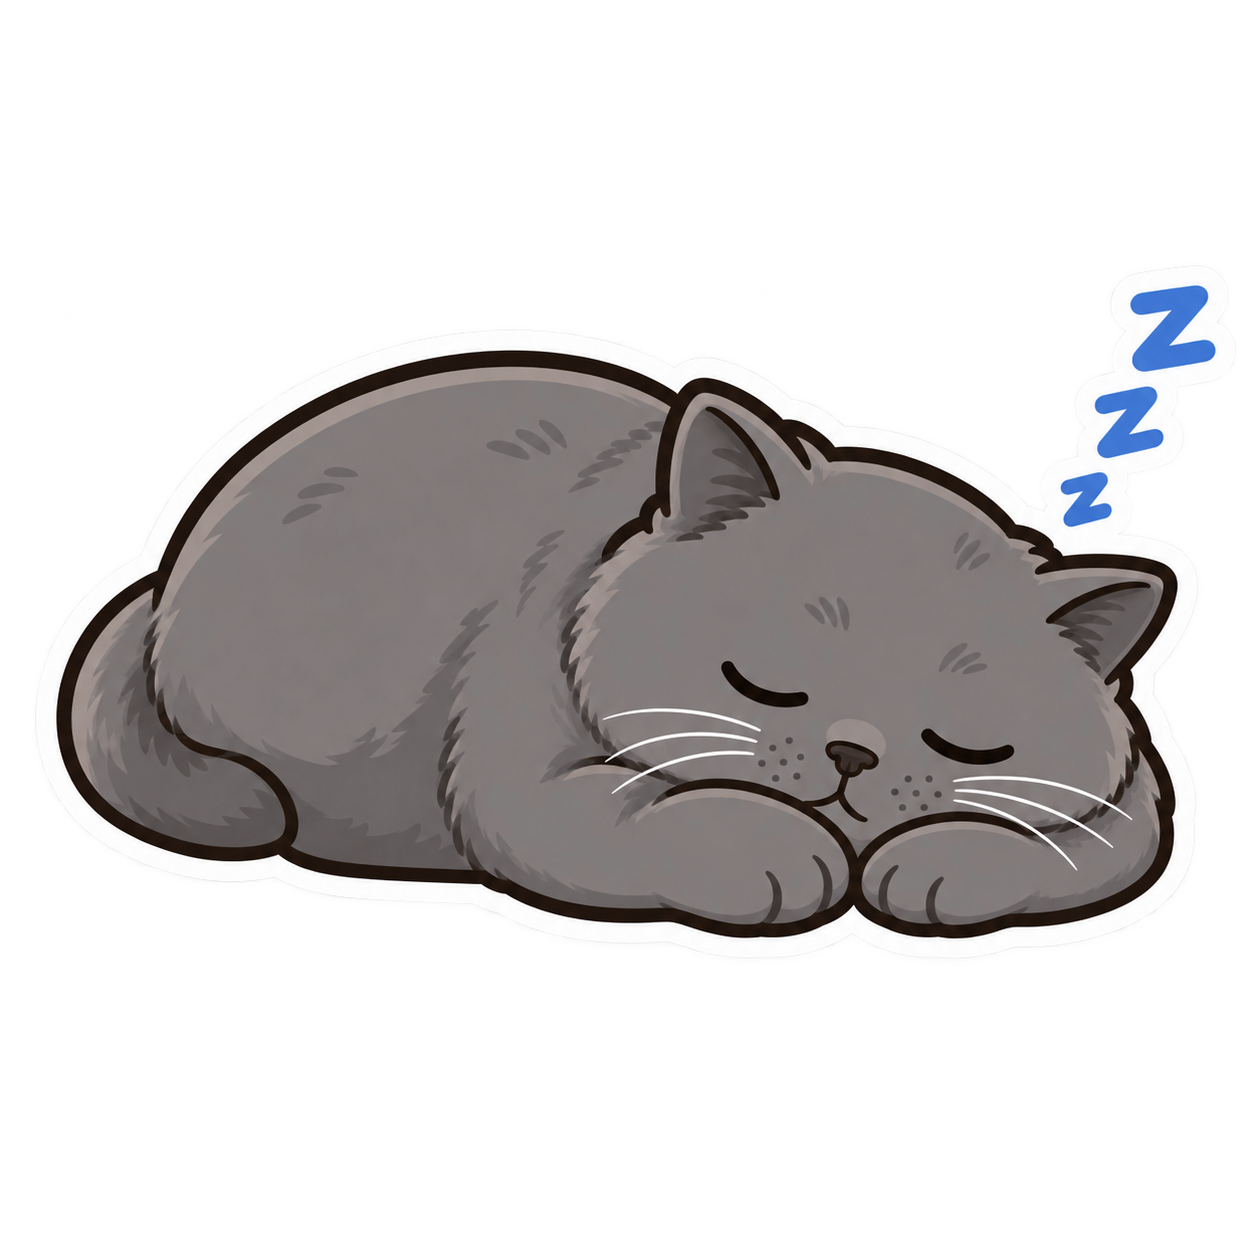
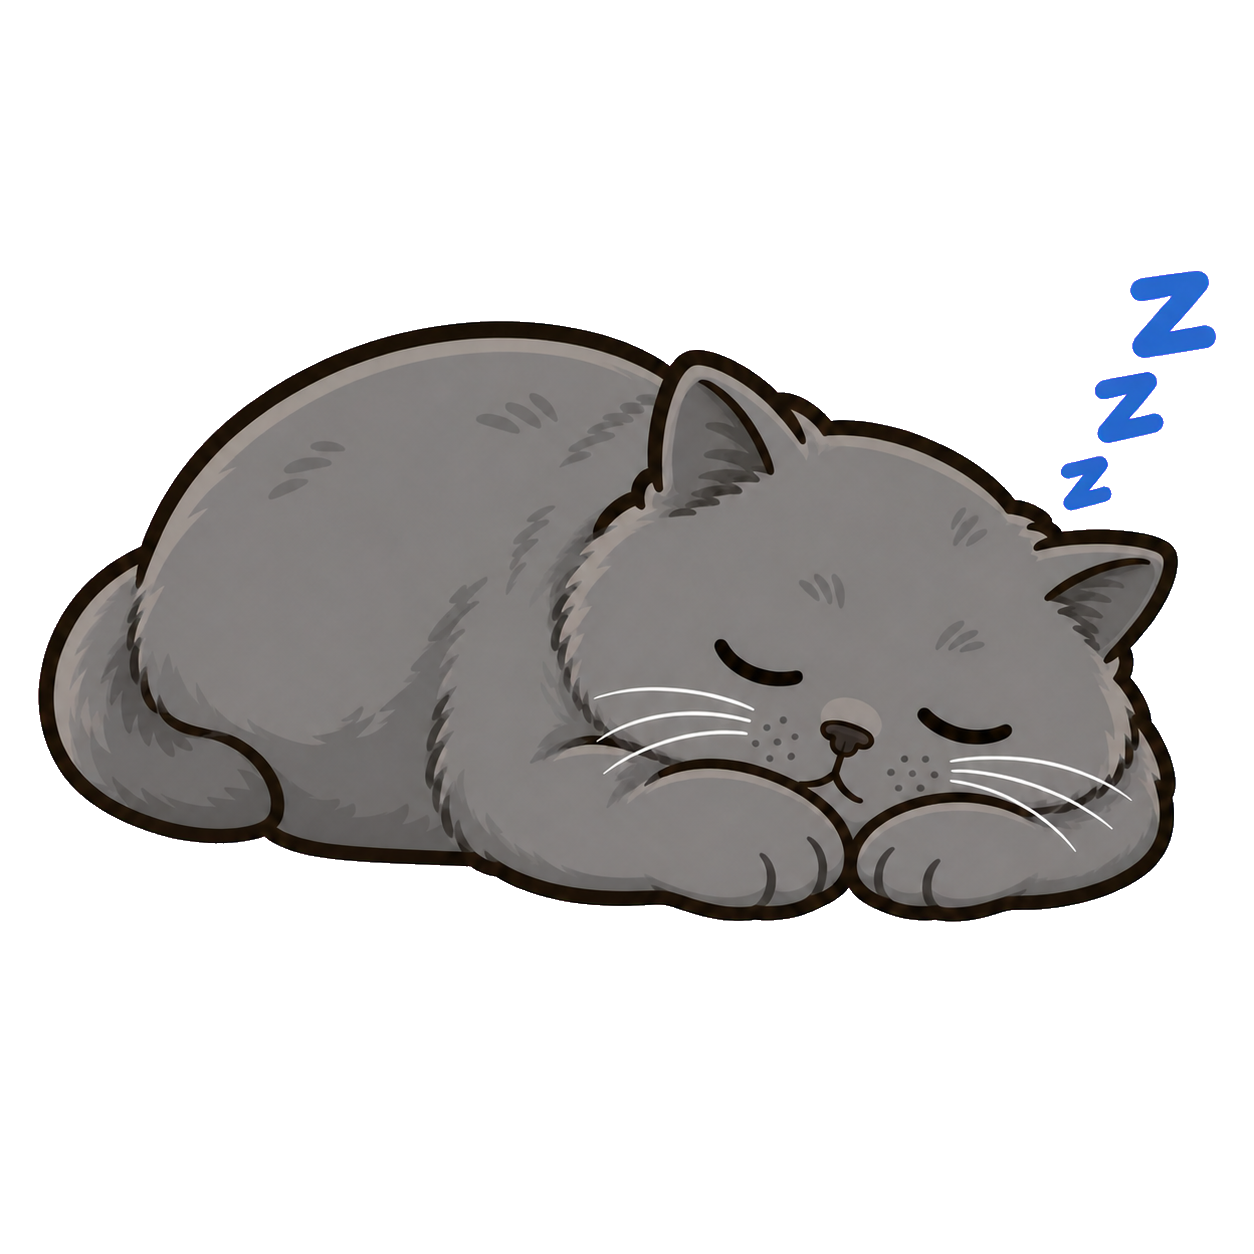
feat: add theme-specific borderless home cats

diff --git a/tests/test_frontend_home_information_architecture.py b/tests/test_frontend_home_information_architecture.py
@@ -3,11 +3,15 @@
 import unittest
 from inspect import getsource
 
+from PIL import Image
+
 from frontend.pages.home import (
-    HOME_GOODCAT_HERO_PATH,
+    HOME_GOODCAT_DARK_HERO_PATH,
+    HOME_GOODCAT_LIGHT_HERO_PATH,
     PLANNER_INTRO,
     SITE_NAME,
     SITE_SLOGAN,
+    get_home_goodcat_hero_path,
     render_exploration_links,
     render_home,
     render_primary_action,
@@ -16,12 +20,70 @@ from frontend.ui.theme import GLOBAL_STYLES
 
 
 class TestFrontendHomeInformationArchitecture(unittest.TestCase):
-    def test_home_uses_sleeping_goodcat_hero(self) -> None:
+    def test_home_uses_theme_specific_sleeping_goodcat_heroes(
+        self,
+    ) -> None:
         self.assertEqual(
-            HOME_GOODCAT_HERO_PATH.name,
+            HOME_GOODCAT_LIGHT_HERO_PATH.name,
             "goodcat-sleeping-hero.png",
         )
-        self.assertTrue(HOME_GOODCAT_HERO_PATH.is_file())
+        self.assertEqual(
+            HOME_GOODCAT_DARK_HERO_PATH.name,
+            "goodcat-sleeping-white-hero.png",
+        )
+        self.assertTrue(HOME_GOODCAT_LIGHT_HERO_PATH.is_file())
+        self.assertTrue(HOME_GOODCAT_DARK_HERO_PATH.is_file())
+        self.assertEqual(
+            get_home_goodcat_hero_path("light"),
+            HOME_GOODCAT_LIGHT_HERO_PATH,
+        )
+        self.assertEqual(
+            get_home_goodcat_hero_path("dark"),
+            HOME_GOODCAT_DARK_HERO_PATH,
+        )
+
+    def test_home_sleeping_heroes_have_real_transparency(
+        self,
+    ) -> None:
+        for asset_path in (
+            HOME_GOODCAT_LIGHT_HERO_PATH,
+            HOME_GOODCAT_DARK_HERO_PATH,
+        ):
+            with Image.open(asset_path).convert("RGBA") as image:
+                self.assertEqual(image.size, (1254, 1254))
+                self.assertEqual(image.getpixel((0, 0))[3], 0)
+                self.assertEqual(
+                    image.getchannel("A").getextrema(),
+                    (0, 255),
+                )
+
+    def test_light_sleeping_hero_has_no_white_outer_border(
+        self,
+    ) -> None:
+        with Image.open(
+            HOME_GOODCAT_LIGHT_HERO_PATH
+        ).convert("RGBA") as image:
+            pixels = image.load()
+            width, height = image.size
+            boundary_colors = []
+            for y in range(1, height - 1):
+                for x in range(1, width - 1):
+                    red, green, blue, alpha = pixels[x, y]
+                    if alpha < 128:
+                        continue
+                    neighbors = (
+                        pixels[x - 1, y][3],
+                        pixels[x + 1, y][3],
+                        pixels[x, y - 1][3],
+                        pixels[x, y + 1][3],
+                    )
+                    if any(value < 128 for value in neighbors):
+                        boundary_colors.append((red, green, blue))
+
+        self.assertTrue(boundary_colors)
+        self.assertFalse(
+            any(min(color) > 220 for color in boundary_colors)
+        )
 
     def test_home_uses_approved_brand_and_beginner_copy(self) -> None:
         self.assertEqual(SITE_NAME, "GoodCat 股利喵")
@@ -52,7 +114,8 @@ class TestFrontendHomeInformationArchitecture(unittest.TestCase):
         self.assertIn("st.image", source)
         self.assertIn("st.columns", source)
         self.assertIn("[2, 3]", source)
-        self.assertIn("HOME_GOODCAT_HERO_PATH", source)
+        self.assertIn("get_home_goodcat_hero_path", source)
+        self.assertIn("st.context.theme.type", source)
         self.assertIn("width=260", source)
         self.assertLess(source.index("st.image"), source.index("st.write"))
         self.assertLess(source.index("st.write"), source.index("st.page_link"))

diff --git a/frontend/pages/home.py b/frontend/pages/home.py
@@ -27,14 +27,28 @@ PLANNER_INTRO = (
     "咪想幫主人能固定賺到罐頭錢，這樣才能買很多好吃的罐頭  \n"
     "咪會幫主人規劃&計算所需資金吧，喵嗚~"
 )
-HOME_GOODCAT_HERO_PATH = get_goodcat_presentation(
+HOME_GOODCAT_LIGHT_HERO_PATH = get_goodcat_presentation(
     GoodCatState.IDLE
 ).asset_path.with_name("goodcat-sleeping-hero.png")
+HOME_GOODCAT_DARK_HERO_PATH = HOME_GOODCAT_LIGHT_HERO_PATH.with_name(
+    "goodcat-sleeping-white-hero.png"
+)
+
+
+def get_home_goodcat_hero_path(theme_type: str):
+    """依目前主題選擇對比清楚、情境一致的首頁貓咪。"""
+
+    if theme_type == "dark":
+        return HOME_GOODCAT_DARK_HERO_PATH
+    return HOME_GOODCAT_LIGHT_HERO_PATH
 
 
 def render_primary_action() -> None:
     """將核心配置流程放在首頁第一個可操作位置。"""
 
+    home_goodcat_hero_path = get_home_goodcat_hero_path(
+        st.context.theme.type
+    )
     with st.container(border=True, key="home-primary-action"):
         cat_column, copy_column = st.columns(
             [2, 3],
@@ -43,7 +57,7 @@ def render_primary_action() -> None:
         )
         with cat_column:
             st.image(
-                HOME_GOODCAT_HERO_PATH,
+                home_goodcat_hero_path,
                 caption=None,
                 width=260,
                 output_format="PNG",

diff --git a/frontend/assets/goodcat/README.md b/frontend/assets/goodcat/README.md
@@ -15,7 +15,8 @@ terms and this repository's license. Keep this provenance note with the files.
 | --- | --- | --- |
 | `goodcat-idle.png` | `IDLE` | Home, empty or waiting state |
 | `goodcat-idle-hero.png` | `IDLE` | Losslessly cropped home hero with even transparent padding |
-| `goodcat-sleeping-hero.png` | `IDLE` | Sleeping-cat artwork selected for the home planning hero |
+| `goodcat-sleeping-hero.png` | `IDLE` | Borderless gray sleeping cat used by the light-theme home hero |
+| `goodcat-sleeping-white-hero.png` | `IDLE` | Matching borderless white sleeping cat used by the dark-theme home hero |
 | `goodcat-attentive-v3.png` | `ATTENTIVE` | Rounder alert eyes and a brighter expression during input |
 | `goodcat-working.png` | `WORKING` | Natural crouch while calculation runs |
 | `goodcat-ready.png` | `READY` | Alert stance and raised tail for completion |
@@ -42,6 +43,11 @@ reward while intentionally omitting the reward object itself.
 The V5-1A page-state illustrations were selected by the product owner from the
 GoodCat image set generated with OpenAI's built-in image generation on
 2026-08-31. V5-1B is reserved for live-page visual and responsive review.
+
+The theme-specific home pair was generated from the selected sleeping-cat
+reference on 2026-08-31. Both variants use the same sleeping situation and
+expression without an outer white sticker border. The gray cat is used in the
+light theme and the white cat is used in the dark theme.
 
 All production files are PNG images with real alpha transparency. Character
 images supplement visible Traditional Chinese state text; they never replace
